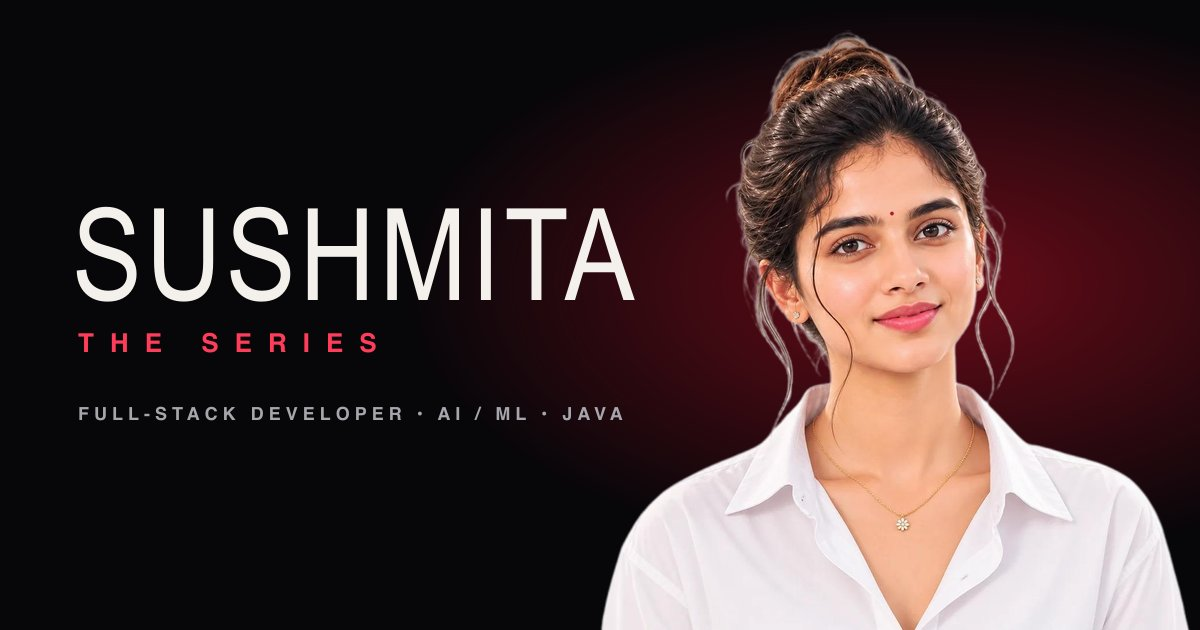
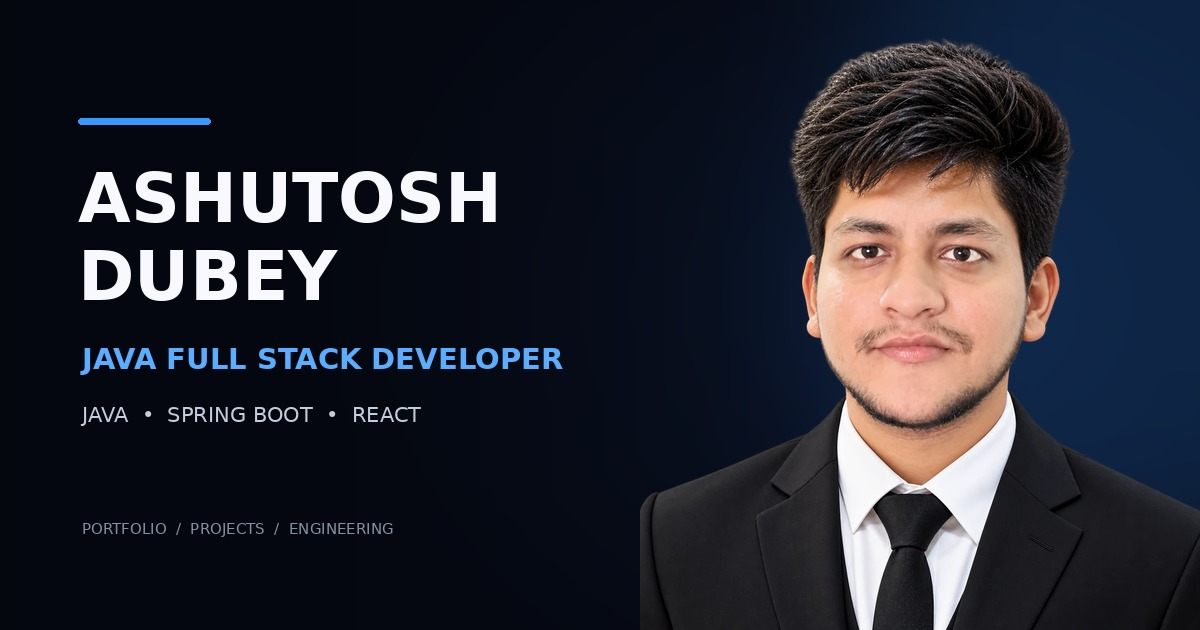
Fix WhatsApp portfolio preview image

diff --git a/index.html b/index.html
@@ -3,22 +3,32 @@
   <head>
     <meta charset="UTF-8" />
     <meta name="viewport" content="width=device-width, initial-scale=1.0, viewport-fit=cover" />
-    <title>Ashutosh Dubey — The Series</title>
-    <meta name="description" content="Ashutosh Dubey — Java Full Stack Developer. A cinematic, streaming-inspired portfolio." />
-    <meta name="theme-color" content="#07070a" />
-    <meta property="og:title" content="Ashutosh Dubey — The Series" />
-    <meta property="og:description" content="Java Full Stack Developer • Spring Boot • React. Every project is an Original." />
-    <meta property="og:image" content="/assets/og-image.jpg" />
+    <title>Ashutosh Dubey — Java Full Stack Developer</title>
+    <meta name="description" content="Ashutosh Dubey — Java Full Stack Developer specializing in Java, Spring Boot, React, and modern web applications." />
+    <meta name="theme-color" content="#070b14" />
+    <meta property="og:type" content="website" />
+    <meta property="og:url" content="https://ashutoshportfolio-three.vercel.app/" />
+    <meta property="og:site_name" content="Ashutosh Dubey Portfolio" />
+    <meta property="og:title" content="Ashutosh Dubey — Java Full Stack Developer" />
+    <meta property="og:description" content="Explore Ashutosh Dubey's projects, skills, and experience in Java, Spring Boot, React, and full-stack development." />
+    <meta property="og:image" content="https://ashutoshportfolio-three.vercel.app/assets/og-image.jpg?v=2" />
+    <meta property="og:image:secure_url" content="https://ashutoshportfolio-three.vercel.app/assets/og-image.jpg?v=2" />
+    <meta property="og:image:type" content="image/jpeg" />
+    <meta property="og:image:width" content="1200" />
+    <meta property="og:image:height" content="630" />
+    <meta property="og:image:alt" content="Ashutosh Dubey — Java Full Stack Developer" />
     <meta name="twitter:card" content="summary_large_image" />
+    <meta name="twitter:title" content="Ashutosh Dubey — Java Full Stack Developer" />
+    <meta name="twitter:description" content="Java, Spring Boot, React, and full-stack engineering projects." />
+    <meta name="twitter:image" content="https://ashutoshportfolio-three.vercel.app/assets/og-image.jpg?v=2" />
     <link rel="icon" type="image/svg+xml" href="/favicon.svg" />
     <link rel="preconnect" href="https://fonts.googleapis.com" />
     <link rel="preconnect" href="https://fonts.gstatic.com" crossorigin />
     <link href="https://fonts.googleapis.com/css2?family=Bebas+Neue&family=Instrument+Serif:ital@0;1&family=Inter:wght@300;400;500;600;700;800&display=swap" rel="stylesheet" />
-    <link rel="preload" as="image" href="/assets/ashutosh-portrait.svg" type="image/webp" />
   </head>
   <body>
     <div id="root"></div>
-    <noscript>Ashutosh Dubey — Java Full Stack Developer. Please enable JavaScript to watch the series.</noscript>
+    <noscript>Ashutosh Dubey — Java Full Stack Developer. Please enable JavaScript to view the portfolio.</noscript>
     <script type="module" src="/src/main.tsx"></script>
   </body>
 </html>
